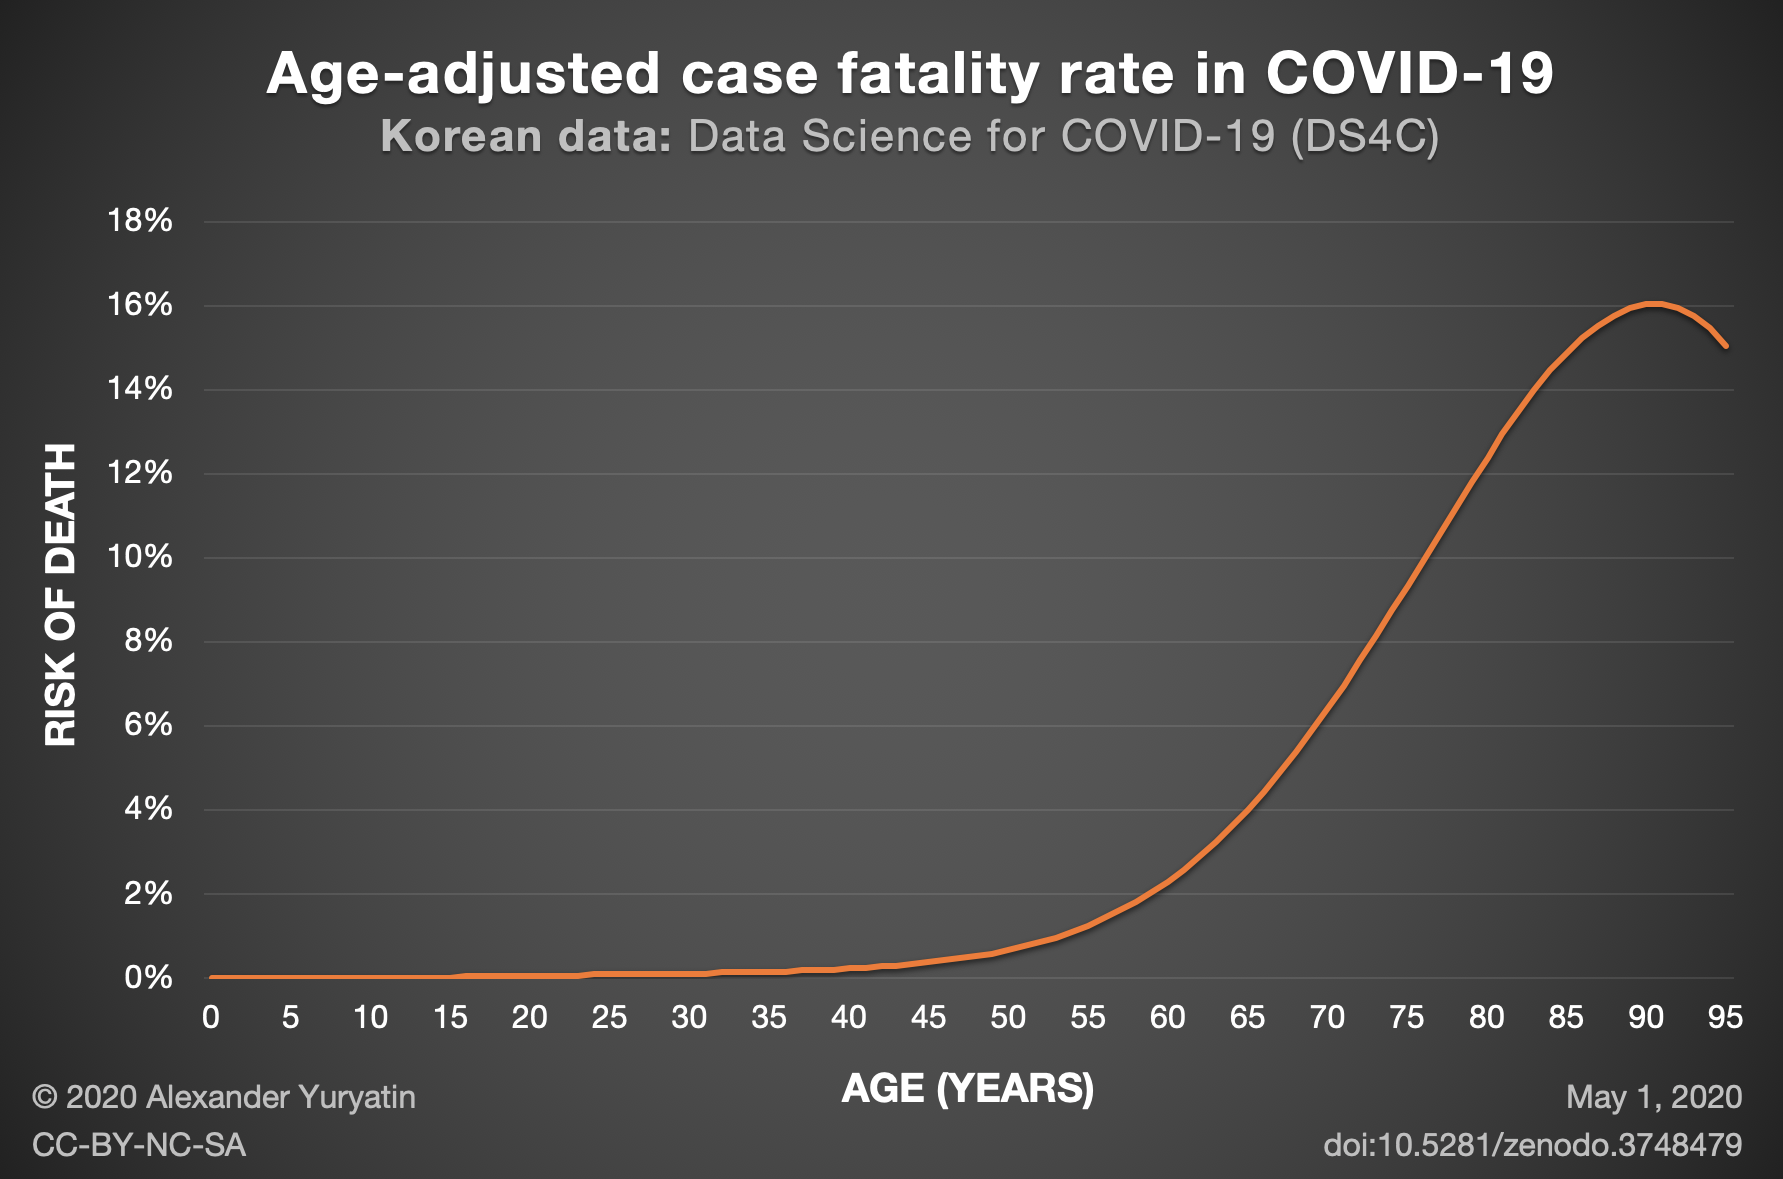
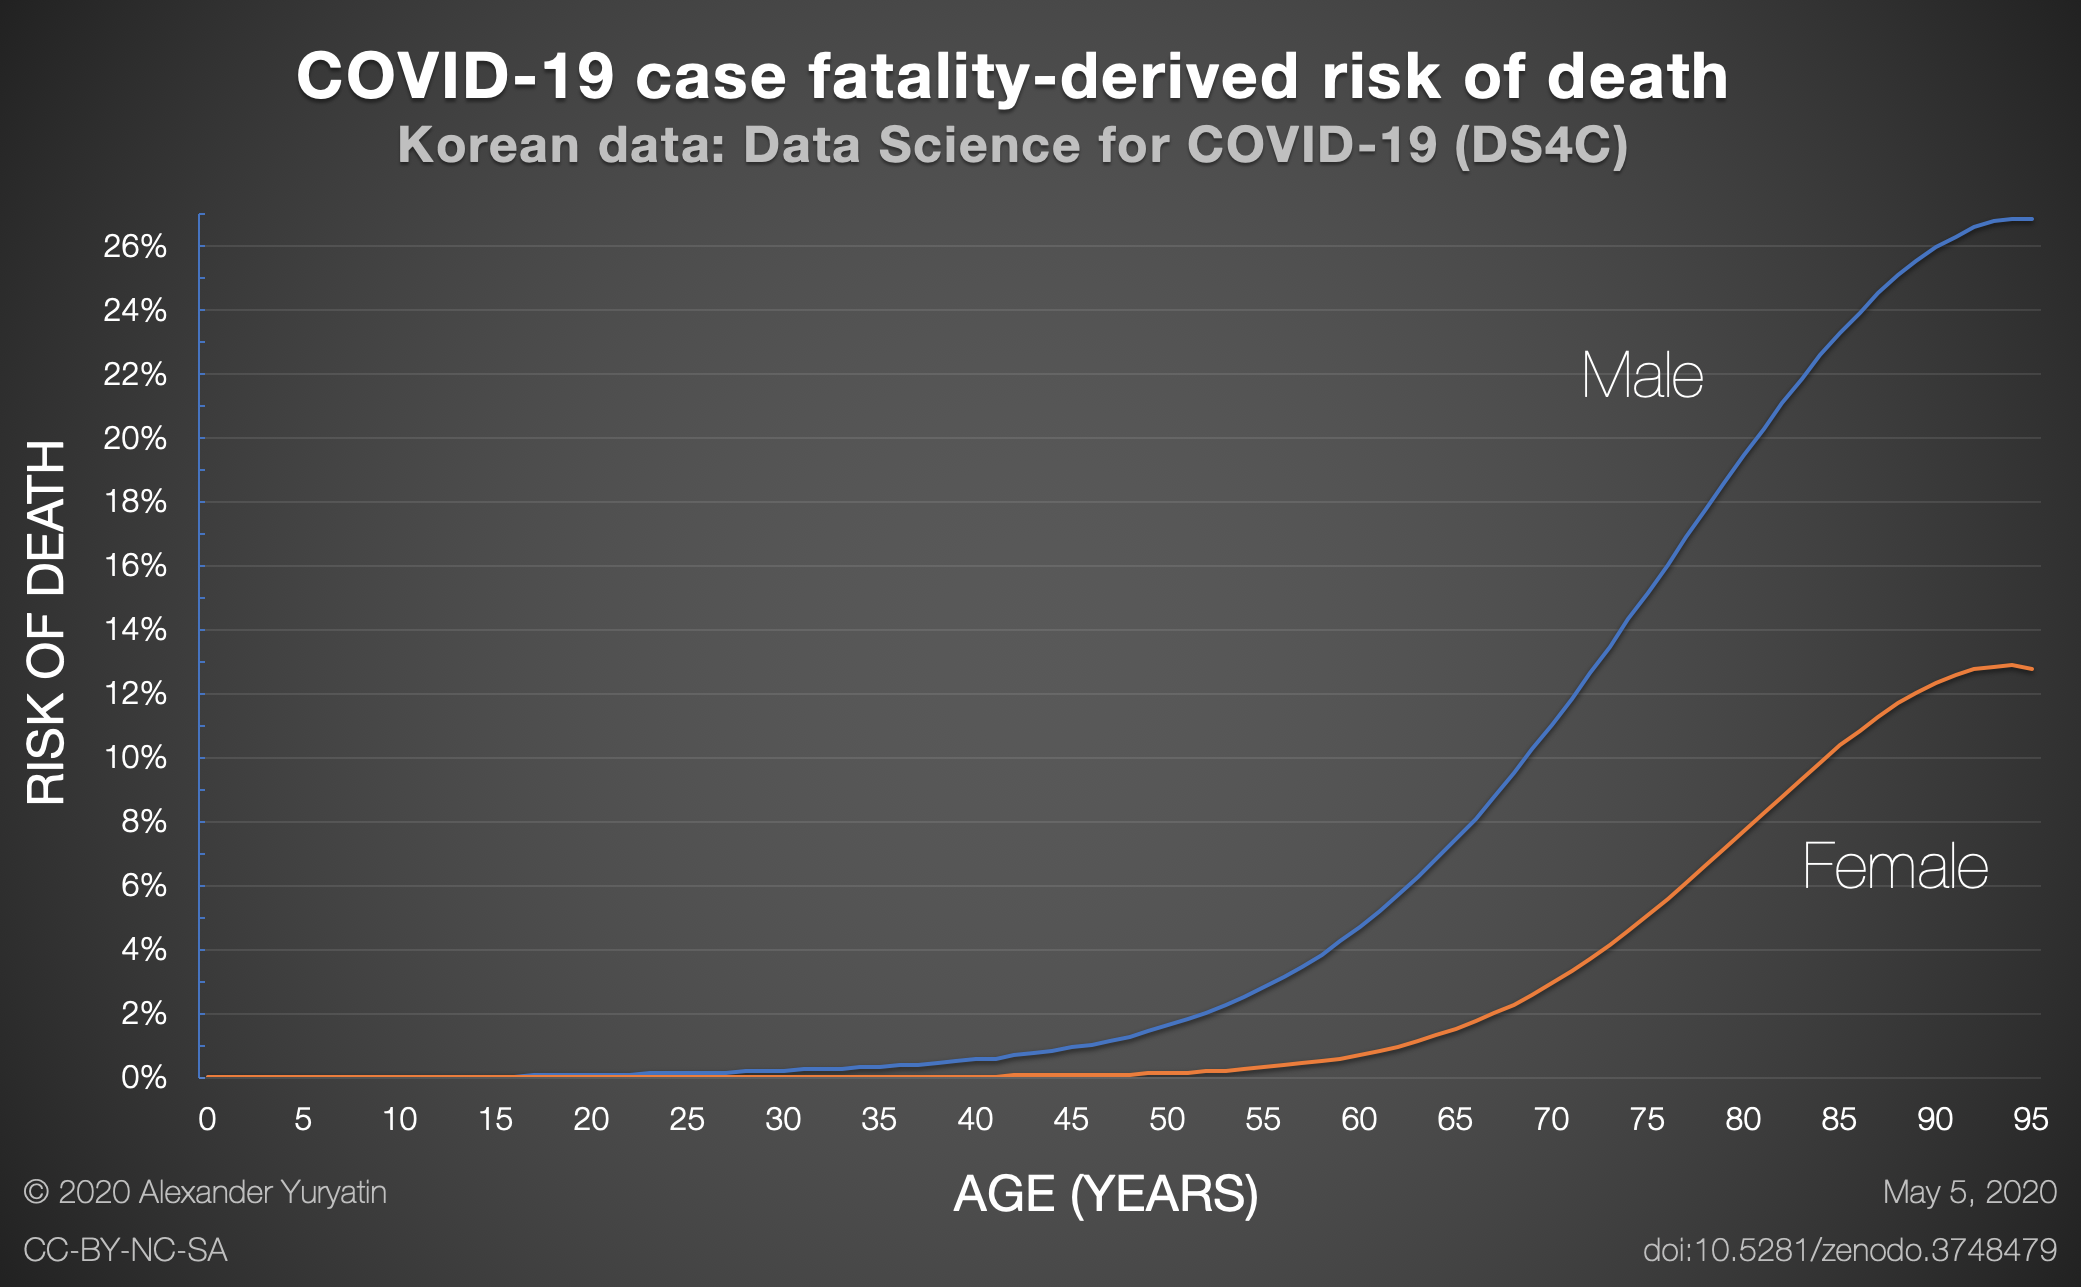
Gender specification was added
Separate models for both genders have been built

diff --git a/script.py b/script.py
@@ -71,8 +71,8 @@ from datetime import timedelta
 
 # the function below is designed to import the case-by-case table from URL https://www.kaggle.com/kimjihoo/coronavirusdataset#PatientInfo.csv
 # to preprocess other data sources, it should be modified
-def ingestData(dataFile: str) -> pd.DataFrame:
-    df = pd.read_csv(dataFile)[['birth_year','symptom_onset_date','confirmed_date','state','released_date','deceased_date']]
+def ingestData(dataFile: str, gender: str = 'both') -> pd.DataFrame:
+    df = pd.read_csv(dataFile)[['birth_year','symptom_onset_date','confirmed_date','state','released_date','deceased_date','sex']]
     df[['symptom_onset_date']] = pd.to_datetime(df['symptom_onset_date'], errors='coerce')
     df[['confirmed_date']] = pd.to_datetime(df['confirmed_date'], errors='coerce')
     df[['deceased_date']] = pd.to_datetime(df['deceased_date'], errors='coerce')
@@ -85,15 +85,18 @@ def ingestData(dataFile: str) -> pd.DataFrame:
     df['age'] = 2020 - df['birth_year']       # in case the dataset has full birth dates instead of birth years, the data type for this variable was left float64/double both in numpy/pandas and the shared C library
     df['outcome'] = np.where(df.state == 'deceased', 1, 0)
     df['age'] = np.where(df.age == 0.0, 1e-8, df.age)
+    if gender == 'both':
+        return df[['age','outcome']]
+    df = df[df.sex == gender]
     return df[['age','outcome']]
 
 
 def main():
     # the function below is designed to import the case-by-case table from URL https://www.kaggle.com/kimjihoo/coronavirusdataset#PatientInfo.csv
-    df = ingestData('PatientInfo.csv')
+    df = ingestData('PatientInfo.csv', gender='both')
     print('{} cases were selected with {} deaths\n'.format(df.shape[0], df['outcome'].sum()))
     # for functions with floor and ceiling the effective polynomial order is going to be two orders lower than what you pass with polynomial_order
-    bestFunction = deathcurve.fitFunctionWrapper(df, signs = '++++++++', oneSignSet = False, functions = (0,2,4,6,8), polynomial_order = 5)   # when passing custom 'functions' parameter consisting of one integer, please remember to add a comma after it to count for a tuple: (1,) instead of (1)
+    bestFunction = deathcurve.fitFunctionWrapper(df, signs = '++++++++', oneSignSet = False, functions = (0,2,4), polynomial_order = 5)   # when passing custom 'functions' parameter consisting of one integer, please remember to add a comma after it to count for a tuple: (1,) instead of (1)
     bestFunction.reportModel()
     bestFunction.plotModel()
     
